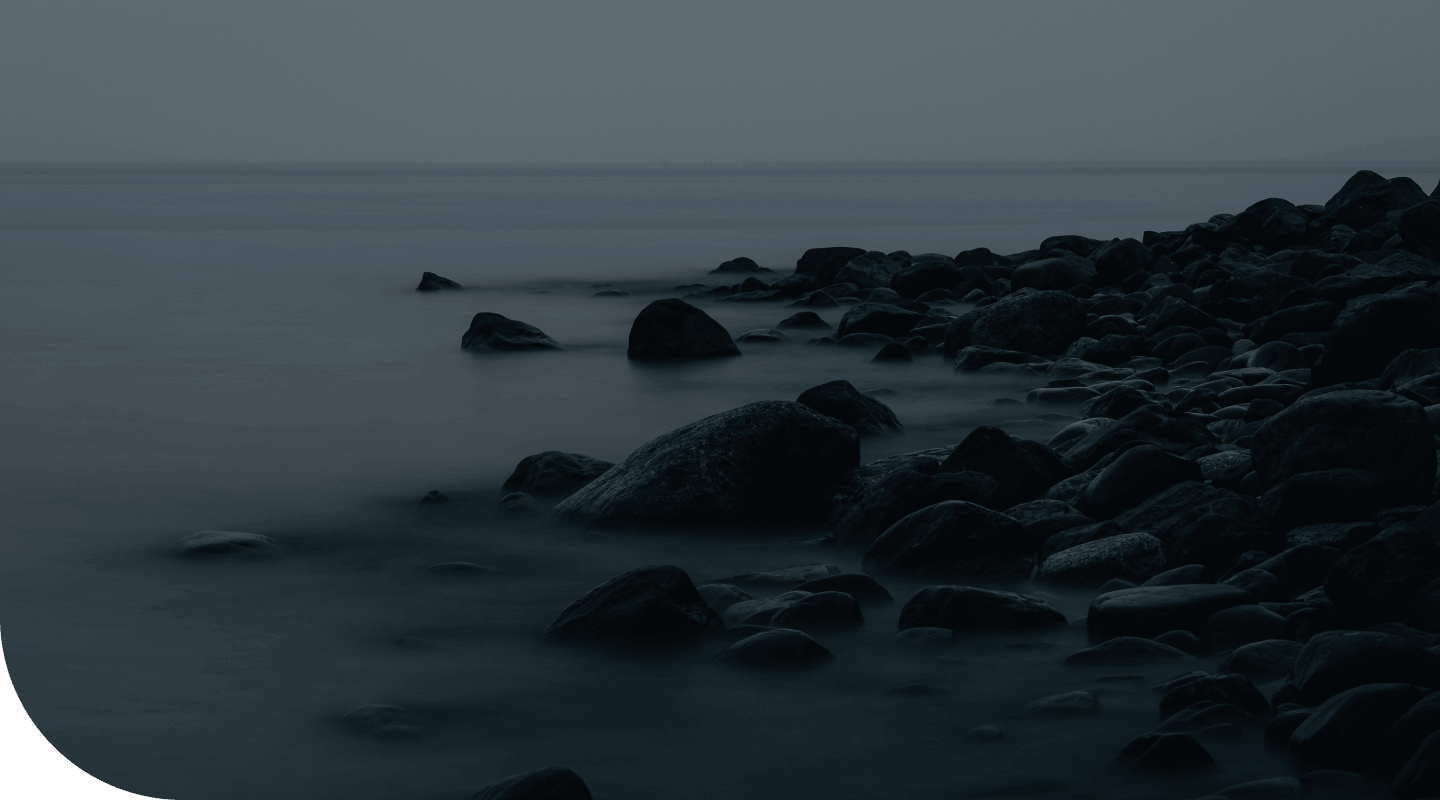
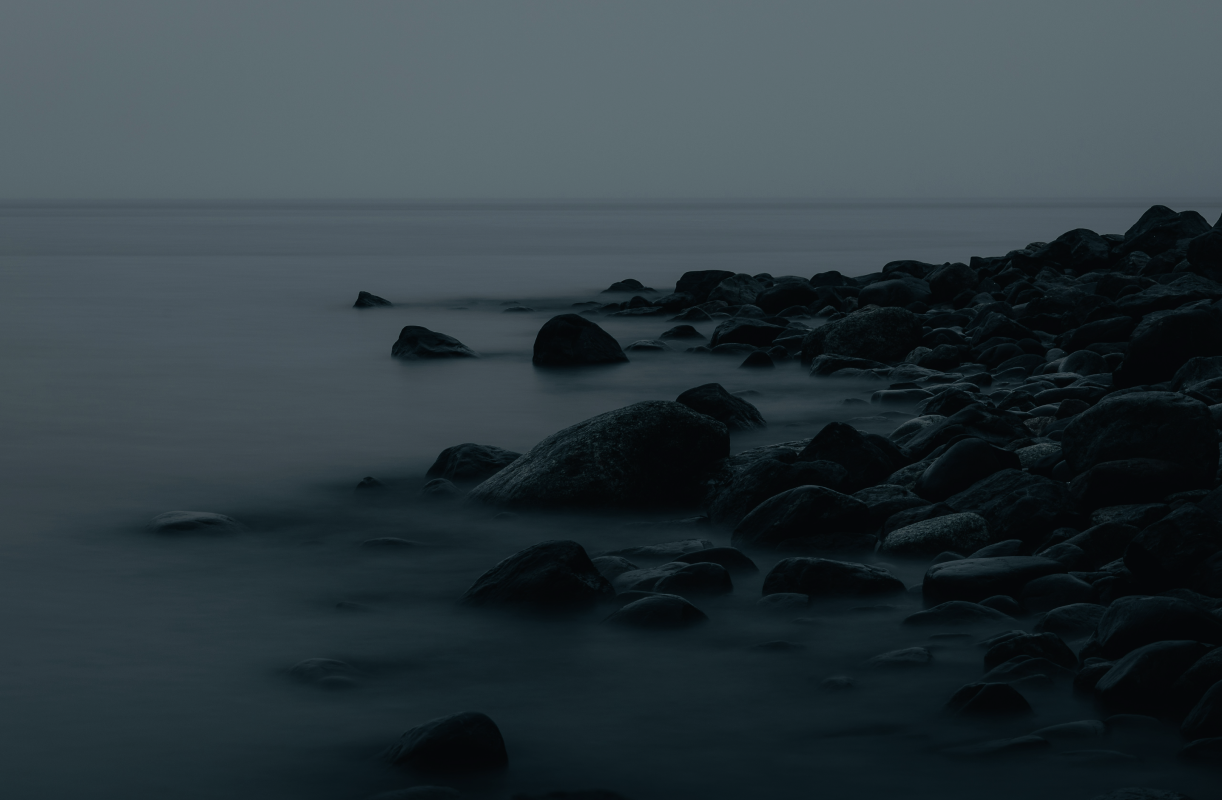
end

diff --git a/style/style.css b/style/style.css
@@ -76,7 +76,7 @@ body {
   background-repeat: no-repeat;
   background-size: cover;
   height: 100vh;
-  border-radius: 0 0 0 280px;
+
 }
 .header {
   width: 921px;
@@ -122,7 +122,7 @@ body {
   margin: auto;
   text-align: center;
   margin-top: 90px;
-  height: 561px;
+  height: 520px;
 }
 .title-process {
   color: #005f84;
@@ -280,7 +280,6 @@ body {
   background-repeat: no-repeat;
   background-size: cover;
   height: 565px;
-  border-radius: 0 280px 0 0;
 }
 .wrapper-contacts {
   position: relative;
